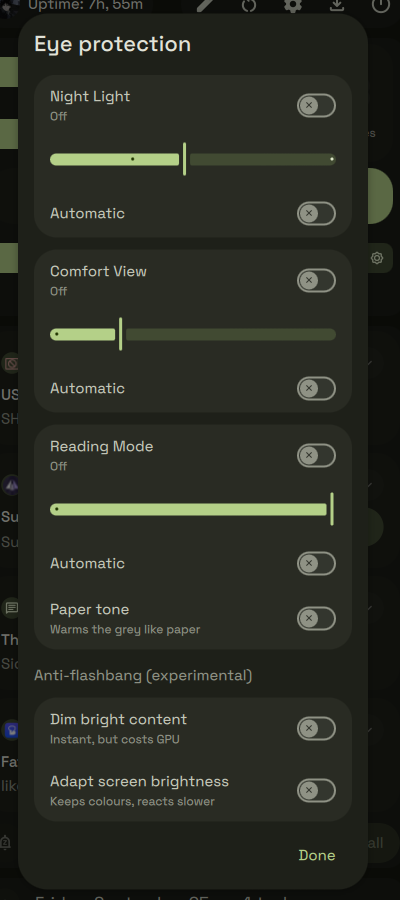
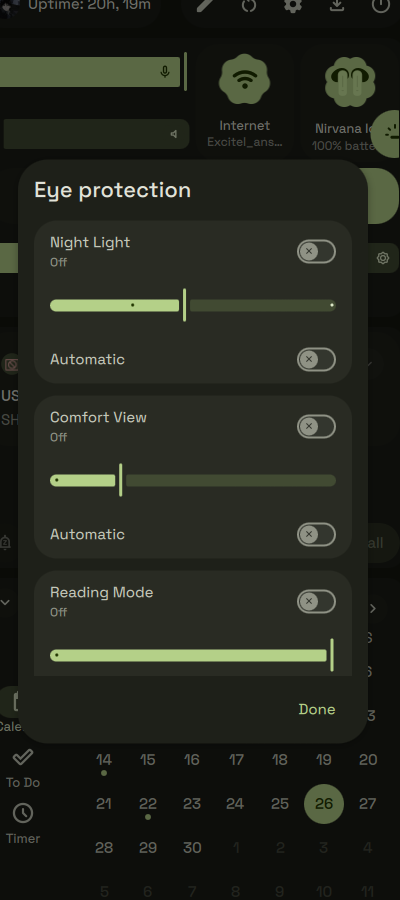
fix(ii-sidebarDashboard): the eye-protection dialog takes the Wi-Fi dialog's height
It was sized to its content, about 870px at 1080p, which made it the one sidebar dialog
of its own size. It now has the Wi-Fi and audio dialogs' height: 0.6 of the sidebar
(about 600px at 1080p), scaling with the screen and held while open. Night Light is
first, and the rest scrolls inside the card.

tools/check-night-light-dialog.py pins the height to the Wi-Fi dialog's expression.

diff --git a/dots/.config/quickshell/ii/modules/ii/sidebarDashboard/nightLight/NightLightDialog.qml b/dots/.config/quickshell/ii/modules/ii/sidebarDashboard/nightLight/NightLightDialog.qml
@@ -14,15 +14,17 @@ WindowDialog {
         return on ? Translation.tr("On") : Translation.tr("Off");
     }
 
+    // The Wi-Fi and audio dialogs' height: a share of the sidebar, so it scales with
+    // the screen (about 600 at 1080p), and fixed while open. The body scrolls inside it.
+    backgroundHeight: Math.round(root.height * 0.6)
+
     WindowDialogTitle {
-        id: title
         text: Translation.tr("Eye protection")
     }
 
-    // Scrolls only where the sidebar is too short for it; at 1080p it fits.
     StyledFlickable {
         Layout.fillWidth: true
-        Layout.preferredHeight: Math.min(body.implicitHeight, root.height - title.implicitHeight - buttonRow.implicitHeight - root.dialogPadding * 6)
+        Layout.fillHeight: true
         contentHeight: body.implicitHeight
         contentWidth: width
         clip: true
@@ -133,7 +135,6 @@ WindowDialog {
     }
 
     WindowDialogButtonRow {
-        id: buttonRow
 
         Item {
             Layout.fillWidth: true

diff --git a/tools/check-night-light-dialog.py b/tools/check-night-light-dialog.py
@@ -40,6 +40,12 @@ for name in ("HyprlandComfortView", "HyprlandReadingMode"):
     assert on_int and "applyShader" not in on_int.group(1), f"{name}: onIntensityChanged re-applies on setIntensity's own config write"
     assert re.search(r"id: applyDebounce\s*\n\s*interval: \d+", svc), f"{name}: no applyDebounce Timer"
 
+wifi = (II / "modules/ii/sidebarDashboard/wifiNetworks/WifiDialog.qml").read_text()
+height = re.search(r"backgroundHeight:\s*(.+)", dialog)
+assert height and height.group(1) == re.search(r"backgroundHeight:\s*(.+)", wifi).group(1), \
+    "NightLightDialog: must share the Wi-Fi dialog's screen-scaled height, not a fixed one or its content's"
+assert re.search(r"StyledFlickable \{[^}]*Layout\.fillHeight:\s*true", dialog), "NightLightDialog: the body must fill the card and scroll"
+
 sunset = (II / "services/Hyprsunset.qml").read_text()
 assert "Hyprland.dispatch(`hyprctl" not in sunset, "Hyprsunset: `hyprctl` is not a dispatcher; that line is a Lua error in this config"
 

diff --git a/.audit/ii-sidebarDashboard-nightLight/brief.md b/.audit/ii-sidebarDashboard-nightLight/brief.md
@@ -6,7 +6,9 @@ long press: Night Light, Comfort View, Reading Mode and Anti-flashbang.
 
 **Primary action.** Each effect's own switch. Before, the dialog was a 520px scroll box, so
 only Night Light and half of Comfort View were on screen, and three rows said "Enable now".
-It fits its content at 1080p now. The scroll box stays only as a cap for a shorter sidebar.
+It now has the Wi-Fi and audio dialogs' height: 0.6 of the sidebar, which is about 600px
+at 1080p. That scales with the screen and holds while the dialog is open. Night Light is
+first, and the rest scrolls inside the card.
 
 **Hierarchy.** One card per effect, in the order the tiles sit. Its first row is the
 effect's name, a status line and the switch. Under it is the intensity slider, then
@@ -40,7 +42,7 @@ The three sidebar dialogs read as one family.
   line says "On until 06:30".
 - *Automatic off while on*: Night Light stays on (the service's existing behaviour), and
   the status line drops to "On".
-- *A shorter sidebar*: the body scrolls under a fixed title and button row.
+- *Any screen*: the card is 0.6 of the sidebar, and the body scrolls under a fixed title and button row.
 
 **Cost.** No effects. Service side: one debounce `Timer` in each shader service. Before,
 a drag was a `hyprctl reload` for every integer crossed, twice over, because

diff --git a/.audit/ii-sidebarDashboard-nightLight/notes.md b/.audit/ii-sidebarDashboard-nightLight/notes.md
@@ -28,6 +28,12 @@ of the Night Light, Comfort View, Reading Mode or Anti-flashbang tiles.
 - Turning Night Light's automatic off leaves the temperature wherever the schedule had put
   it. Android does the same.
 
+**Height (2026-09-26, owner's call).** The first pass sized the card to its content, about
+870px at 1080p. The owner wanted the same height as the Wi-Fi, audio and Bluetooth dialogs,
+so it is `Math.round(root.height * 0.6)` now, with the flickable filling the space. The
+body scrolls, and Night Light stays at the top. `check-night-light-dialog.py` pins the
+expression to the Wi-Fi dialog's.
+
 **Brightness and gamma were removed** on the grounds that the sidebar's default quick
 slider (`sidebar.quickSliders.showGamma`, on by default) covers both. If
 `showGamma` is switched off, this dialog no longer offers a fallback. Restore the section
